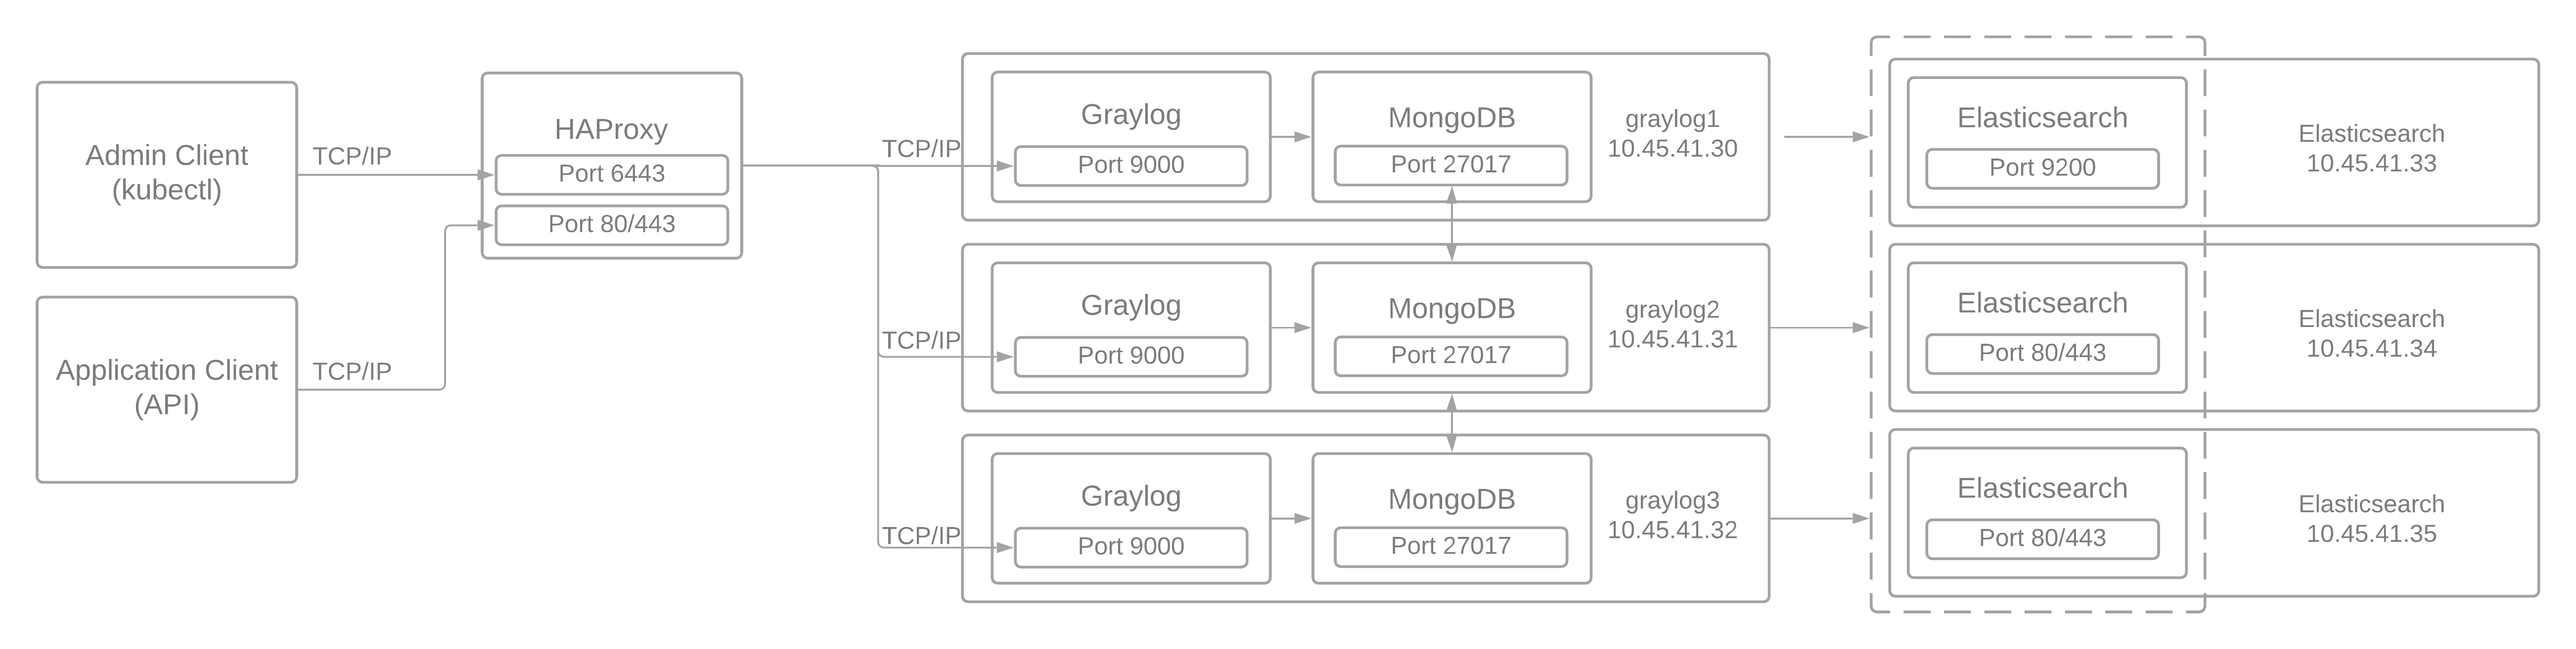
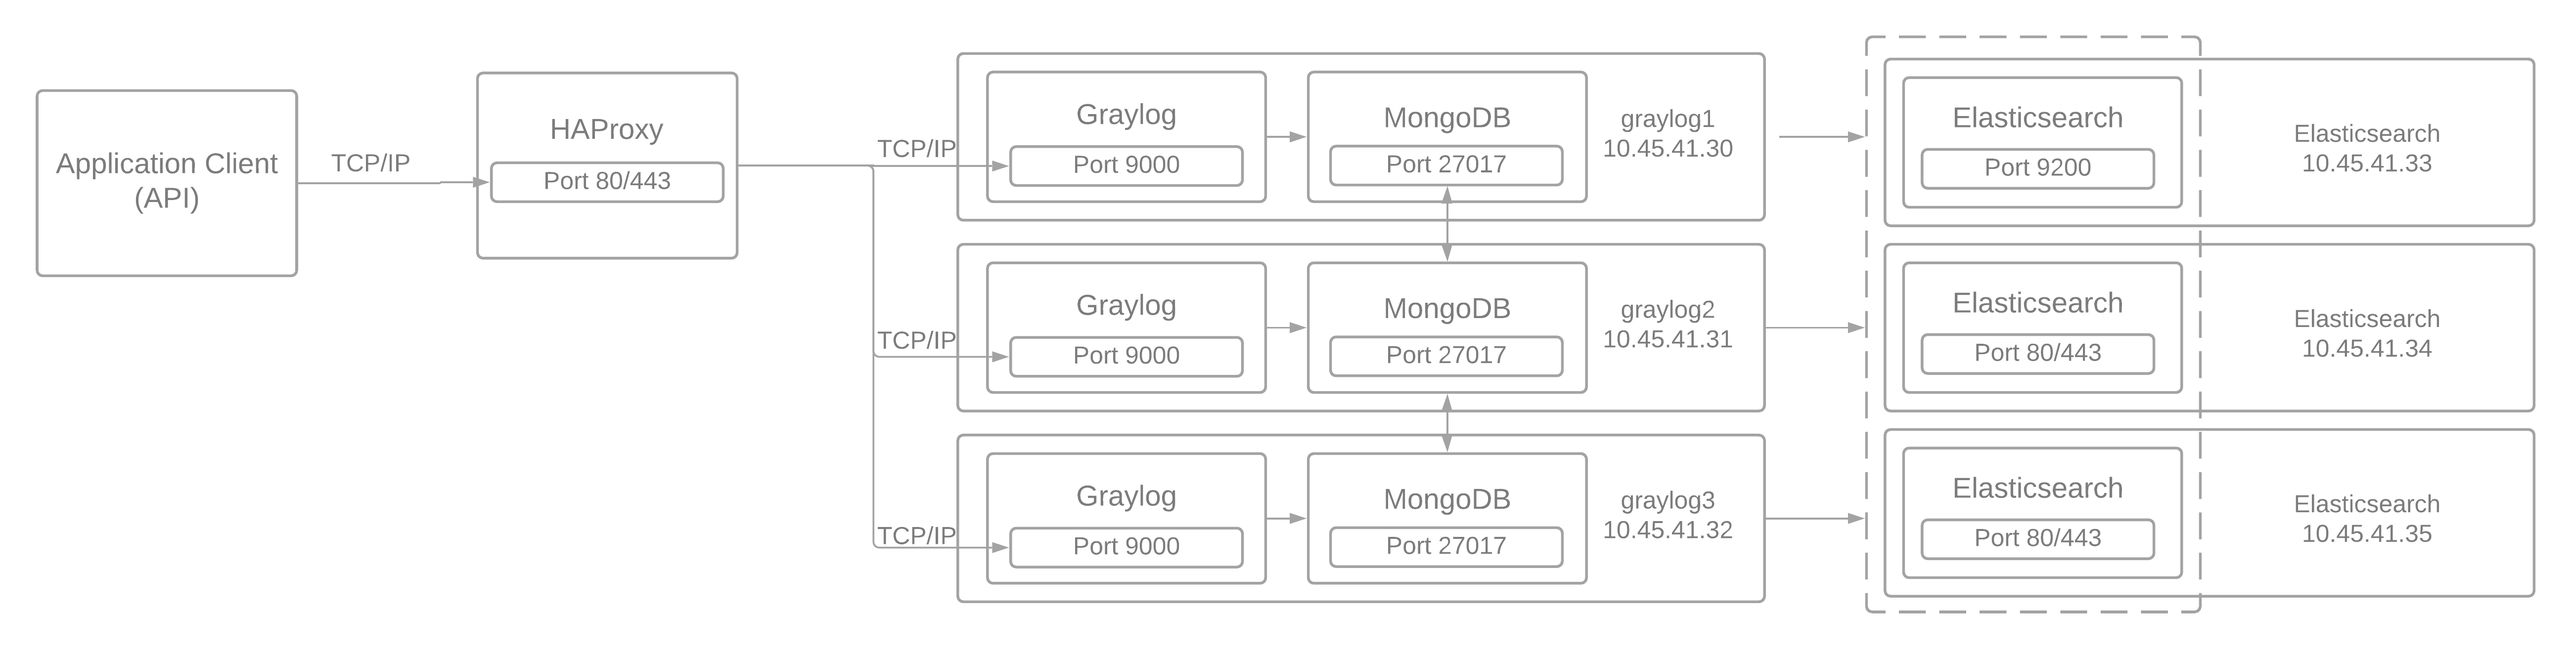
(coop): add image for chapter 3

diff --git a/README.md b/README.md
@@ -1040,17 +1040,39 @@ Log-based software monitoring: a systematic mapping study
 
     ![system-prometheus-network-port-schematics](./media/system-prometheus-network-port-schematics.png)
 
-    ภาพแสดงการใช้งาน port และ protolcol ในส่วนของการเชื่อมต่อกับ Graylog cluster
+    ภาพแสดงการใช้งาน port และ protolcol ในส่วนของการเชื่อมต่อกับ Prometheus server
 
 ### 3.4 สถาปัตยกรรมของระบบ (ภาพรวมของระบบ อธิบายถึงการใช้เทคโนโลยีอะไรบ้าง)
 
-### 3.5 ภาพรวมของแอปพลิเคชัน
+- รูปภาพรวมระบบ
+
+    ![system-architecture](./media/system-architecture.png)
+
+    ภาพแสดงการใช้งาน port และ protolcol ในส่วนของการเชื่อมต่อกับ Prometheus server
+
+- ระบบ monitoring
+
+  - ระบบ metrics
+
+    ![system-monitoring-metrics-architecture](./media/system-monitoring-metrics-architecture.png)
+
+  - ระบบ logging
+
+    ![system-monitoring-log-architecture](./media/system-monitoring-log-architecture.png)
+
+- ระบบ alerting
+
+    ![system-monitoring-alerting-architecture](./media/system-monitoring-alerting-architecture.png)
+
+- ระบบ visualization
+
+  - grafana
 
 ## 4 ผลการวิจัย
 
 (รายละเอียดของผลการทำงานของระบบ ดีขึ้นจากแต่เดิมอย่างไร ด้วยตัวเลขเท่าไหร่ นำข้อมูลมาเปรียบเทียบกัน สำเร็จกี่เปอร์เซ็นต์ ล้มเหลวกี่เปอร์เซ็นต์)
 
-### 5 สรุปผลการวิจัยและข้อเสนอแนะ
+## 5 สรุปผลการวิจัยและข้อเสนอแนะ
 
 (วิเคราะห์ระบบที่สร้าง ข้อดี ข้อเสีย สาเหตุ การแก้ไข ข้อเสนอแนะ)
 
